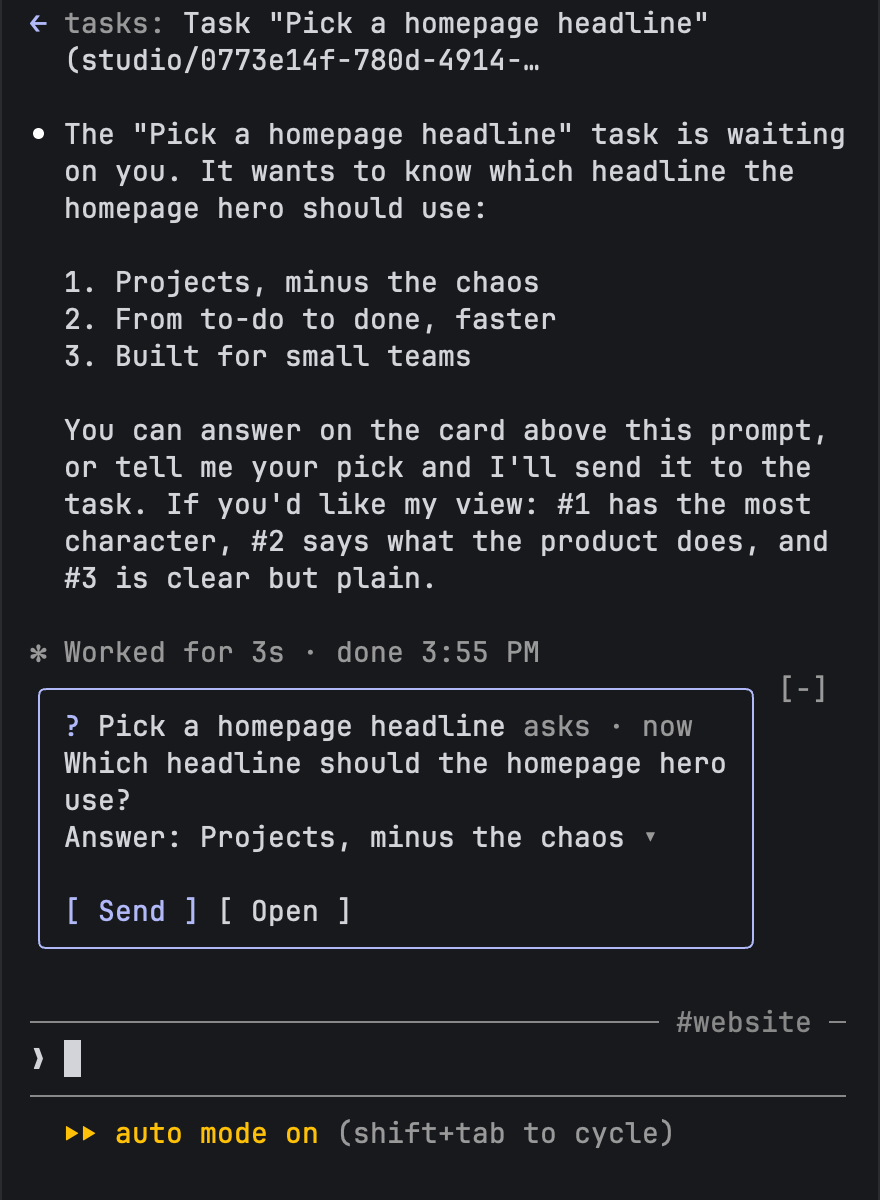
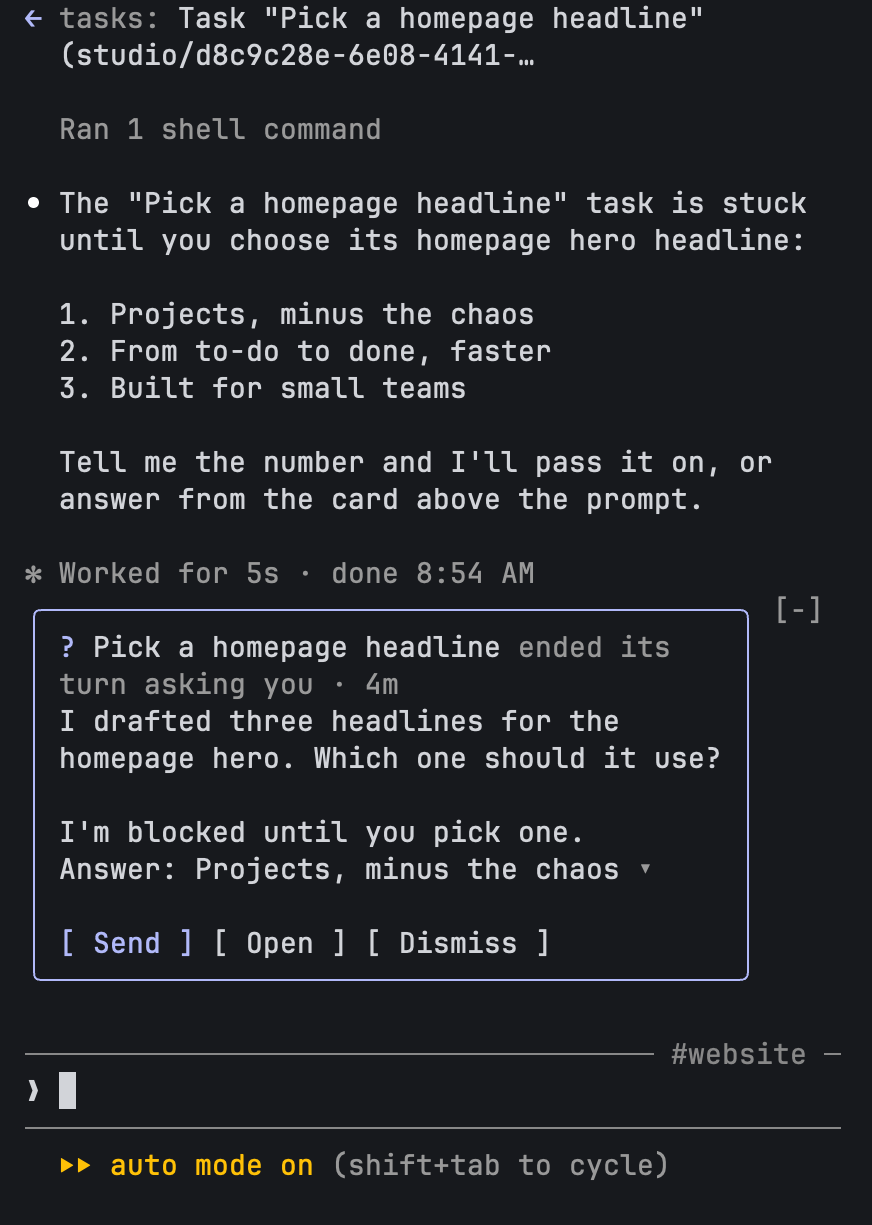
fix: A question card can always be dismissed, and goes by itself after two days (#49)
* fix: A question card can always be dismissed, and goes by itself after two days

A task that ends its turn on a question stays "blocked" in Claude Code's
records, so the listener never saw it move on and its card stayed for good.
Every card now has Dismiss (channels card dismiss), Open says so in a toast
when it works, a question card reads "ended its turn asking you", and a
question nobody answered in two days (from when it was filed) leaves the
inbox and isn't drawn.

Claude-Session: https://claude.ai/code/session_01Nb4n9XFXWBozTimNiET9N9

* docs: The task card screenshots show Dismiss and the new header

Claude-Session: https://claude.ai/code/session_01Nb4n9XFXWBozTimNiET9N9

---------

diff --git a/mods/claude/test/cards.test.tsx b/mods/claude/test/cards.test.tsx
@@ -2,7 +2,7 @@ import { expect, mock, test } from 'claude-code/testing'
 import type { Engine } from 'claude-code/testing'
 import type { On } from 'claude-code'
 
-import { cardsOf, questionOf } from '../hooks/cards'
+import { cardsOf, questionOf, stale } from '../hooks/cards'
 
 const BAND = {
   plugin: 'channels-cards',
@@ -56,13 +56,17 @@ function world(on: On, inbox: unknown[], answer: (argv: readonly string[]) => { 
     submitted.push(e.text)
     return { text: e.text }
   })
-  on('ui.toast', () => ({ value: undefined }))
+  const toasts: string[] = []
+  on('ui.toast', (_, e) => {
+    toasts.push(e.text)
+    return { value: undefined }
+  })
   const setInbox = async (next: unknown[]) => {
     disk.text = JSON.stringify({ v: 2, channels: [{ id: CH, inbox: next }] })
     disk.mtime += 1
     await clock.advance(2000)
   }
-  return { clock, ran, submitted, setInbox }
+  return { clock, ran, submitted, setInbox, toasts }
 }
 
 const start = ($: Engine, on: On) => {
@@ -75,7 +79,7 @@ test('a question with options: pick one, Send runs channels send with it, and th
   await start($, on)
   for (const surface of ['terminal', 'desktop'] as const) {
     const ui = await $.ui.mount({ ...BAND, surface })
-    expect((await ui.find({ type: 'Text', text: /Draw the logo/ }))?.text).toContain('asks · 2m')
+    expect((await ui.find({ type: 'Text', text: /Draw the logo/ }))?.text).toContain('ended its turn asking you · 2m')
     expect(await ui.find({ type: 'Text', text: /Which colour should the logo be\?/ })).toBeDefined()
     expect(await ui.find({ key: `pick:${Q}` })).toBeDefined()
     expect(await ui.find({ key: `open:${Q}` })).toBeDefined()
@@ -123,9 +127,10 @@ test('a permission prompt offers Open only, which asks herdr to show the task', 
   const ui = await $.ui.mount({ ...BAND, surface: 'terminal' })
   expect((await ui.find({ type: 'Text', text: /Migrate the database/ }))?.text).toContain('waits on a permission prompt')
   expect(await ui.find({ type: 'Text', text: /psql -f migrate\.sql\): answer it in the task's view/ })).toBeDefined()
-  expect(await ui.findAll({ type: 'Button' })).toHaveLength(1)
+  expect((await ui.findAll({ type: 'Button' })).map(b => b.key)).toEqual([`open:${P}`, `dismiss:${P}`])
   await ui.press({ key: `open:${P}` })
   expect(w.ran).toEqual([{ argv: ['/bin/channels', 'open', P], stdin: undefined }])
+  expect(w.toasts).toEqual(['Migrate the database is in the tasks panel.'])
   await ui.unmount()
 })
 
@@ -140,7 +145,7 @@ test('a Codex approval shows what it would run and why; Allow and Deny answer it
   expect((await ui.find({ type: 'Text', text: /Check the release notes/ }))?.text).toContain('Codex asks to run a command')
   expect(await ui.find({ type: 'Text', text: /\$ curl -sI https:\/\/example\.com/ })).toBeDefined()
   expect(await ui.find({ type: 'Text', text: /Check the link works/ })).toBeDefined()
-  expect((await ui.findAll({ type: 'Button' })).map(b => b.key)).toEqual([`allow:${P}`, `deny:${P}`, `open:${P}`])
+  expect((await ui.findAll({ type: 'Button' })).map(b => b.key)).toEqual([`allow:${P}`, `deny:${P}`, `open:${P}`, `dismiss:${P}`])
   await ui.press({ key: `allow:${P}` })
   expect(w.ran).toEqual([{ argv: ['/bin/channels', 'approve', P, 'allow'], stdin: undefined }])
   expect(await ui.find({ type: 'Button' })).toBeUndefined()
@@ -151,7 +156,7 @@ test('a Codex question names its harness', async ($, on) => {
   world(on, [{ ...question(), label: 'Codex', harness: 'codex' }])
   await start($, on)
   const ui = await $.ui.mount({ ...BAND, surface: 'terminal' })
-  expect((await ui.find({ type: 'Text', text: /Draw the logo/ }))?.text).toContain('Codex asks')
+  expect((await ui.find({ type: 'Text', text: /Draw the logo/ }))?.text).toContain('(Codex) ended its turn asking you')
   await ui.unmount()
 })
 
@@ -191,7 +196,7 @@ test('the store read into cards: an older entry without a card, other channels l
 })
 
 test('a question whose options are in the Select leaves their list out of its text', () => {
-  const card = { task: Q, name: 'n', state: 'question', at: AT, waiting: null, remote: null, cloud: false, options: ['Calm', 'Playful'], message: 'Which tone?\n\n1. **Calm**\n2. Playful\n\nI lean calm.' } as const
+  const card = { task: Q, name: 'n', state: 'question', at: AT, since: AT, waiting: null, remote: null, cloud: false, options: ['Calm', 'Playful'], message: 'Which tone?\n\n1. **Calm**\n2. Playful\n\nI lean calm.' } as const
   expect(questionOf({ ...card, options: [...card.options] })).toBe('Which tone?\n\nI lean calm.')
   expect(questionOf({ ...card, options: [] })).toBe(card.message)
 })
@@ -230,4 +235,47 @@ test('a cloud task: its question card has no Answer, only Open, which opens it o
   expect(w.ran).toEqual([{ argv: ['/bin/channels', 'link', C, '--open'], stdin: undefined }])
   expect(w.submitted).toEqual([])
   await ui.unmount()
+})
+
+// The stuck card: a task ended its turn on a question days ago and stays "blocked" in Claude Code's records, so the
+// listener's look never says it moved on. Its card can always be dismissed, and past two days it isn't drawn.
+test('every card has Dismiss, which runs channels card dismiss and takes the card away; a failed one says why', async ($, on) => {
+  let fails = false
+  const w = world(on, [question(), permission], argv => (fails ? { exitCode: 1, stderr: 'No task testmac/dddd0002 in any channel.\n' } : { exitCode: 0 }))
+  await start($, on)
+  const ui = await $.ui.mount({ ...BAND, surface: 'terminal' })
+  await ui.press({ key: `dismiss:${Q}` })
+  expect(w.ran).toEqual([{ argv: ['/bin/channels', 'card', 'dismiss', Q], stdin: undefined }])
+  expect(await ui.find({ key: `send:${Q}` })).toBeUndefined()
+  expect(w.submitted).toEqual([])
+  fails = true
+  await ui.press({ key: `dismiss:${P}` })
+  expect(await ui.find({ type: 'Text', text: /No task testmac\/dddd0002 in any channel\./ })).toBeDefined()
+  expect(await ui.find({ key: `dismiss:${P}` })).toBeDefined()
+  await ui.unmount()
+})
+
+test('a failed Open says why on the card; one that works says so in a toast', async ($, on) => {
+  const w = world(on, [question()], () => ({ exitCode: 1, stderr: "The herdr window didn't take it: no window. Is Herdr open with the channels layout?\n" }))
+  await start($, on)
+  const ui = await $.ui.mount({ ...BAND, surface: 'terminal' })
+  await ui.press({ key: `open:${Q}` })
+  expect(await ui.find({ type: 'Text', text: /Is Herdr open with the channels layout\?/ })).toBeDefined()
+  expect(w.toasts).toEqual([])
+  await ui.unmount()
+})
+
+test('a question nobody answered in two days is not drawn; a prompt that old still is', async ($, on) => {
+  const old = new Date(NOW - 3 * 86_400_000).toISOString()
+  const w = world(on, [{ ...question(), at: old }, { ...permission, at: old }])
+  await start($, on)
+  const ui = await $.ui.mount({ ...BAND, surface: 'terminal' })
+  expect(await ui.find({ key: `send:${Q}` })).toBeUndefined()
+  expect(await ui.find({ key: `open:${P}` })).toBeDefined()
+  await w.setInbox([{ ...question(), at: new Date(NOW - 86_400_000).toISOString() }])
+  expect(await ui.find({ key: `send:${Q}` })).toBeDefined()
+  await ui.unmount()
+  const [q] = cardsOf(JSON.stringify({ channels: [{ id: CH, inbox: [question()] }] }), CH)
+  expect(stale(q!, NOW)).toBe(false)
+  expect(stale(q!, NOW + 2 * 86_400_000)).toBe(true)
 })

diff --git a/mods/claude/hooks/register.tsx b/mods/claude/hooks/register.tsx
@@ -5,10 +5,14 @@
 // the store's channels.json (only when it changed): the channel's inbox, which the listener beside the chat fills
 // with its tasks' events. Each event is a card:
 // - a question (the task ended its turn asking something): its question, an answer (a Select of the options it
-//   listed, or an Input), Send, which runs `channels send <task> -`, and Open;
-// - a prompt (a permission prompt or another dialog in the task's own session): Open only;
+//   listed, or an Input), Send, which runs `channels send <task> -`, and Open. One nobody answered in two days isn't
+//   drawn (the listener drops it as well): a task that ended asking stays "blocked" in Claude Code's records;
+// - a prompt (a permission prompt or another dialog in the task's own session): Open;
 // - an approval (a Codex task asks to run a command, or change files, outside its sandbox): what it would run and why,
 //   Allow and Deny, which run `channels approve <task> allow|deny`, and Open. The task's own view clears its prompt.
+// Every card has Dismiss, which runs `channels card dismiss <task>`: the card goes, the task is left as it is.
+// A command that fails says why on the card; Open that works says so in a toast (it acts in the Herdr window, where
+// the task may already be showing, so without one a press that worked looked like nothing happened).
 // A card of a task on another harness than Claude Code names it ("Codex asks").
 // A finish has no card: it reaches the chat as a one-line notice (`channels notices`), and the chat takes a turn on it.
 // A task with Remote Control on (its claude.ai/code link is in the inbox entry) also gets Open on claude.ai, which runs
@@ -23,7 +27,7 @@ import { atom, read, update } from 'claude-code'
 import type { EngineInterface, Register } from 'claude-code'
 
 import type { Card, CardWork } from '../types'
-import { OTHER, ago, cardsOf, lastLine, questionOf } from './cards'
+import { OTHER, ago, cardsOf, lastLine, questionOf, stale } from './cards'
 
 const cards = atom({ plugin: 'channels-cards', key: 'cards' } as const, [] as Card[])
 const drafts = atom({ plugin: 'channels-cards', key: 'drafts' } as const, {} as Record<string, string>)
@@ -108,11 +112,19 @@ async function approve($: EngineInterface, card: Card, decision: 'allow' | 'deny
 }
 
 async function open($: EngineInterface, card: Card) {
-  await channels($, card.task, 'Opening…', ['open', card.task])
+  if ((await channels($, card.task, 'Opening…', ['open', card.task])) === null) return
+  $.ui.toast(`${card.name} is in the tasks panel.`)
 }
 
 async function openRemote($: EngineInterface, card: Card) {
-  await channels($, card.task, 'Opening claude.ai…', ['link', card.task, '--open'])
+  if ((await channels($, card.task, 'Opening claude.ai…', ['link', card.task, '--open'])) === null) return
+  $.ui.toast(`Opened ${card.name} on claude.ai.`)
+}
+
+// The card goes and the task is left as it is: `channels card dismiss` takes its inbox entry and its unread dot.
+async function dismiss($: EngineInterface, card: Card) {
+  if ((await channels($, card.task, 'Dismissing…', ['card', 'dismiss', card.task])) === null) return
+  await hide($, card.task)
 }
 
 async function setDraft($: EngineInterface, task: string, value: string) {
@@ -142,11 +154,13 @@ export const register: Register = on => {
   on('ui.render', { component: 'AbovePrompt' }, async ($, e, next) => {
     if (e.props.hasSurvey) return next(e)
     const hidden = await read($, gone)
-    const all = (await read($, cards)).filter(c => !hidden.includes(c.task))
+    const held = (await read($, cards)).filter(c => !hidden.includes(c.task))
+    if (!held.length) return next(e)
+    const now = await $.clock.now()
+    const all = held.filter(c => !stale(c, now))
     if (!all.length) return next(e)
     const answers = await read($, drafts)
     const doing = await read($, work)
-    const now = await $.clock.now()
     const { Box, Button, Input, Select, Text } = $.ui.resolve(e)
     const width = Math.max(20, e.props.bodyColumns)
 
@@ -156,6 +170,8 @@ export const register: Register = on => {
       if (w?.error) return <Text color="error">{w.error}</Text>
       return null
     }
+
+    const dismissButton = (card: Card) => <Button key={`dismiss:${card.task}`} label="Dismiss" onPress={() => dismiss($, card)} />
 
     const remote = (card: Card) =>
       card.remote ? <Button key={`remote:${card.task}`} label="Open on claude.ai" onPress={() => openRemote($, card)} /> : null
@@ -174,6 +190,7 @@ export const register: Register = on => {
         <Box flexDirection="row" gap={1}>
           <Text dimColor>Answer it on claude.ai.</Text>
           <Button key={`open:${card.task}`} label="Open" variant="primary" onPress={() => openRemote($, card)} />
+          {dismissButton(card)}
         </Box>
         {status(card)}
       </Box>
@@ -190,7 +207,7 @@ export const register: Register = on => {
               ?{' '}
             </Text>
             <Text bold>{card.name}</Text>
-            <Text dimColor> {card.harness ? `${card.harness} asks` : 'asks'} · {ago(card.at, now)}</Text>
+            <Text dimColor> {card.harness ? `(${card.harness}) ` : ''}ended its turn asking you · {ago(card.at, now)}</Text>
           </Text>
           <Text maxLines={4}>{questionOf(card)}</Text>
           <Box flexDirection="row" gap={1} flexWrap="wrap">
@@ -217,6 +234,7 @@ export const register: Register = on => {
             <Button key={`send:${card.task}`} label="Send" variant="primary" onPress={() => send($, card, draft)} />
             <Button key={`open:${card.task}`} label="Open" onPress={() => open($, card)} />
             {remote(card)}
+            {dismissButton(card)}
           </Box>
           {status(card)}
         </Box>
@@ -238,6 +256,7 @@ export const register: Register = on => {
           </Text>
           <Button key={`open:${card.task}`} label="Open" variant="primary" onPress={() => open($, card)} />
           {remote(card)}
+          {dismissButton(card)}
         </Box>
         {status(card)}
       </Box>
@@ -259,6 +278,7 @@ export const register: Register = on => {
           <Button key={`allow:${card.task}`} label="Allow" variant="primary" onPress={() => approve($, card, 'allow')} />
           <Button key={`deny:${card.task}`} label="Deny" onPress={() => approve($, card, 'deny')} />
           <Button key={`open:${card.task}`} label="Open" onPress={() => open($, card)} />
+          {dismissButton(card)}
         </Box>
         {status(card)}
       </Box>

diff --git a/mods/claude/hooks/cards.ts b/mods/claude/hooks/cards.ts
@@ -11,6 +11,9 @@ type Entry = {
   remote?: unknown
   cloud?: unknown
   label?: unknown
+  filed_at?: unknown
+  told_at?: unknown
+  delivered_at?: unknown
 }
 
 // A claude.ai/code session link, and nothing else, is one a card opens.
@@ -44,6 +47,7 @@ export function cardsOf(storeText: string, channelId: string): Card[] {
       name: str(e.name) ?? task,
       state,
       at: str(e.at) ?? '',
+      since: str(e.filed_at) ?? str(e.told_at) ?? str(e.delivered_at) ?? str(e.at) ?? '',
       waiting: str(c.waiting),
       message: str(c.message),
       options: state === 'question' ? [...new Set(options)] : [],
@@ -84,3 +88,12 @@ export function questionOf(card: Card): string {
 }
 
 export const OTHER = '__something_else__'
+
+// A question nobody answered in two days (from when it was filed) isn't drawn: its task ended its turn asking and
+// stays "blocked" in Claude Code's records, so nothing else would ever take its card away. The listener drops it from
+// the store too (QUESTION_TTL_DAYS in bin/channels.mjs). A prompt or an approval is the task's own dialog: it stays.
+export const QUESTION_TTL_MS = 2 * 86_400_000
+export function stale(card: Card, now: number): boolean {
+  const at = Date.parse(card.since)
+  return card.state === 'question' && Number.isFinite(at) && now - at > QUESTION_TTL_MS
+}

diff --git a/mods/claude/types/index.d.ts b/mods/claude/types/index.d.ts
@@ -6,6 +6,8 @@ export type Card = {
   name: string
   state: CardState
   at: string
+  // When the card was filed (the listener saw it), which its age out counts from; `at` is when the turn ended.
+  since: string
   waiting: string | null
   message: string | null
   options: string[]

diff --git a/README.md b/README.md
@@ -375,7 +375,9 @@ Ride-along uses a Claude Code `UserPromptSubmit` hook. `channels chat` passes it
 hook runs `channels pending <channel> --hook`, which prints the waiting events as additional
 context and marks them delivered. A task's newer event replaces its older one while it waits.
 A delivered question stays as a card until it is answered, dismissed or the task moves on, but
-isn't attached again.
+isn't attached again. A question nobody answers in two days goes too: a task that ended its turn
+asking stays that way in Claude Code's records, so it would never move on by itself. The task
+still waits in the tasks panel, and `channels send` still answers it.
 
 A registration asks for the chat to be woken by a task's next matching event:
 
@@ -411,19 +413,22 @@ Every question and permission prompt also shows as a card in the chat, in the ba
 prompt. A finish has no card: it is a [notice](#task-events). Acting on a card never starts a turn of
 the chat:
 
-<img src="docs/task-cards.png" width="480" alt="The #website chat: a notice, ← tasks: Task Pick a homepage headline, which Claude Code shows cut to two lines, and the chat's answer that the task waits on the user's pick among three headlines, with its own view; below it a card above the prompt: Pick a homepage headline asks which headline the homepage hero should use, with an Answer select, Send and Open">
+<img src="docs/task-cards.png" width="480" alt="The #website chat: a notice, ← tasks: Task Pick a homepage headline, which Claude Code shows cut to two lines, and the chat's answer listing the three headlines the task waits on; below it a card above the prompt: Pick a homepage headline ended its turn asking you, 4m, asking which headline the homepage hero should use, with an Answer select and Send, Open and Dismiss">
 
 | Card | Shows | Buttons |
 |---|---|---|
-| **A task asks something** (it ended its turn with a question) | The task's name and its question. If the question ends with a short list of choices (`1. Teal`, `- Coral`), they are in a Select, with *Something else…* for your own words; otherwise there is a text field. | **Send** gives the task your answer (`channels send <session> -`), and it carries on. **Open** shows the task in the tasks panel, as clicking it there does. |
-| **A task waits on a permission prompt** (or another dialog in its own session) | The task's name and what the prompt asks | **Open**, to answer it in the task's view |
+| **A task asks something** (it ended its turn with a question) | The task's name, *ended its turn asking you*, and its question. If the question ends with a short list of choices (`1. Teal`, `- Coral`), they are in a Select, with *Something else…* for your own words; otherwise there is a text field. | **Send** gives the task your answer (`channels send <session> -`), and it carries on. **Open** shows the task in the tasks panel, as clicking it there does. **Dismiss** takes the card away and leaves the task as it is. |
+| **A task waits on a permission prompt** (or another dialog in its own session) | The task's name and what the prompt asks | **Open**, to answer it in the task's view. **Dismiss** |
+
+Every card has **Dismiss** (`channels card dismiss <session>`). A button whose command fails says why
+on the card, in red; **Open** that works says so in a toast.
 
 To reach a card from the keyboard, press `ctrl+x tab` to focus the band, `tab` to move between its
 controls, and `enter` to press one; `esc` goes back to the prompt. Clicking works too. On a
 question with choices, `enter` on the Select opens it, the arrows pick, and `enter` again keeps the
 pick for **Send**:
 
-<img src="docs/task-card-answer.png" width="480" alt="The Pick a homepage headline card with its Answer select open, listing Projects, minus the chaos; From to-do to done, faster (highlighted); Built for small teams; and Something else…">
+<img src="docs/task-card-answer.png" width="480" alt="The Pick a homepage headline card with its Answer select open, listing Projects, minus the chaos; From to-do to done, faster (highlighted); Built for small teams; and Something else…, above Send, Open and Dismiss">
 
 Acting on a card marks its event handled in the store: it leaves the chat's inbox and the task's dot
 in the panel clears, so it doesn't also ride along with your next message. A prompt's card you don't
@@ -579,7 +584,7 @@ call works again.
 | | Local task | Cloud task |
 |---|---|---|
 | Open (click the row) | Its live session in the panel | On claude.ai in the browser. In the panel with `claude --cloud <id>` only once Claude Code can attach a terminal for the account, which `channels` asks Claude Code now and then |
-| Its question, on a card | Answer (Select or field), Send, Open | What it asks, and **Open**: answer it on claude.ai |
+| Its question, on a card | Answer (Select or field), Send, Open, Dismiss | What it asks, **Open**: answer it on claude.ai, and Dismiss |
 | Send | `channels send`, or type in its view | `channels send`, or **Send message…** in its `···` menu. Behind an open question the text waits until the question is answered on claude.ai, and both say so |
 | Rename | In Claude Code too | Here only: Claude Code has no supported way to rename a cloud session from outside, so claude.ai keeps its title (and a title changed on claude.ai shows here, until you rename it here) |
 | Resolve / dismiss | Hides the task | Hides the task. The session keeps running and stays on claude.ai: archive it there (`···` → Archive). There is no command for that |
